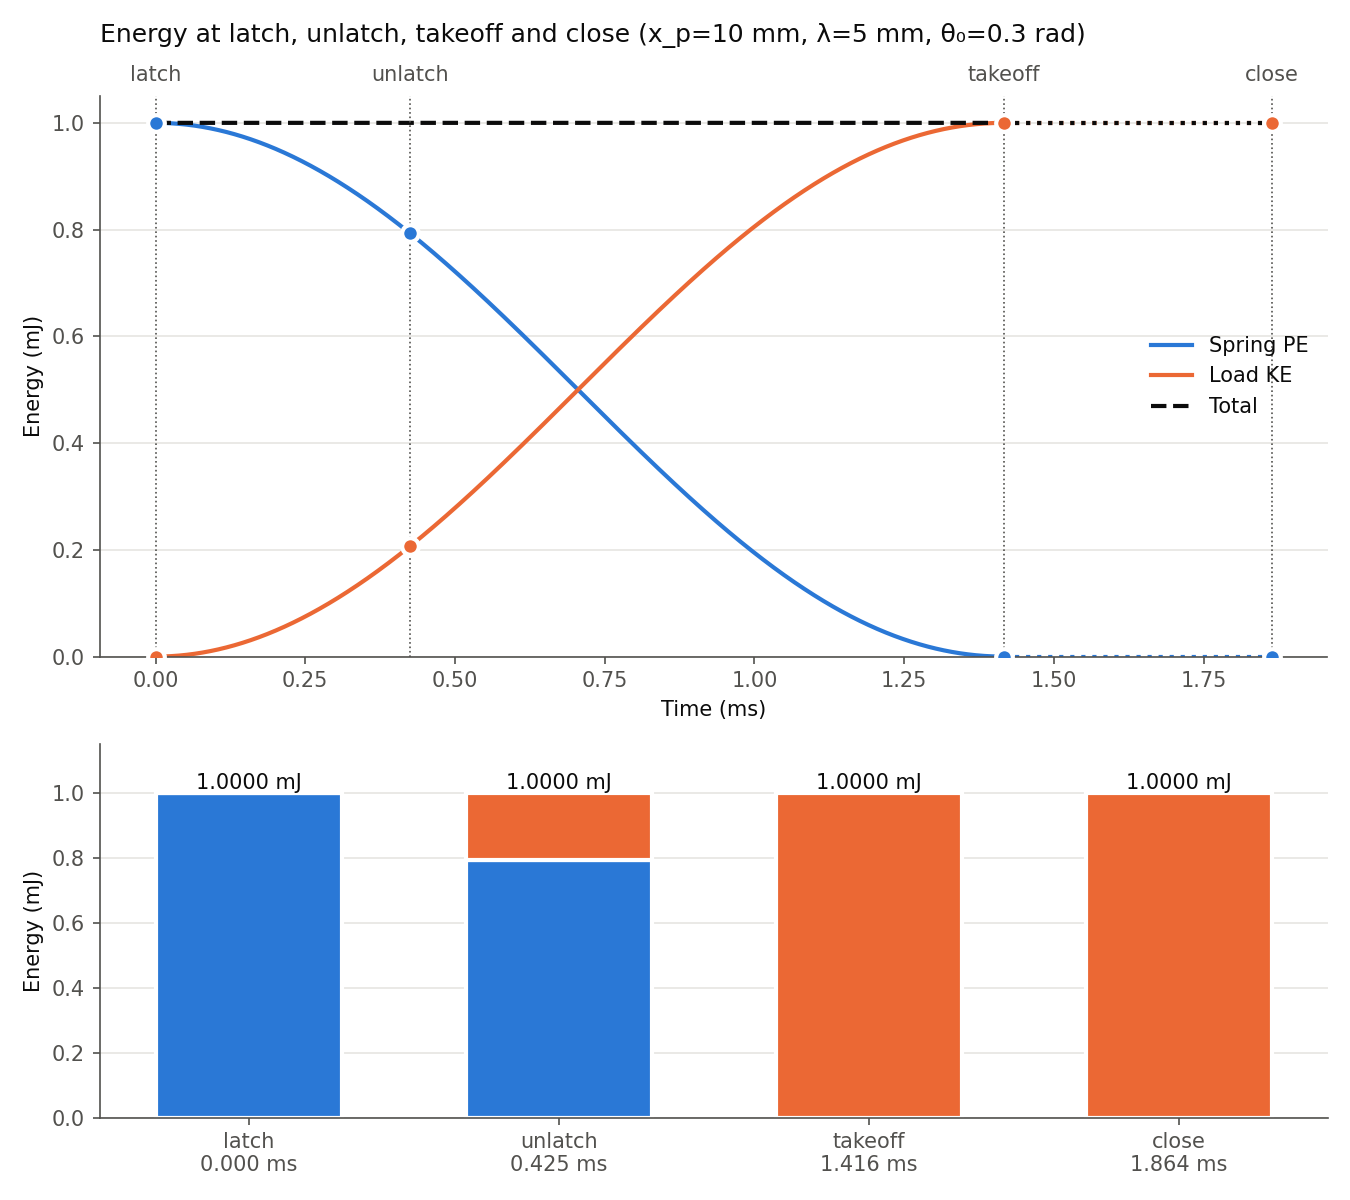
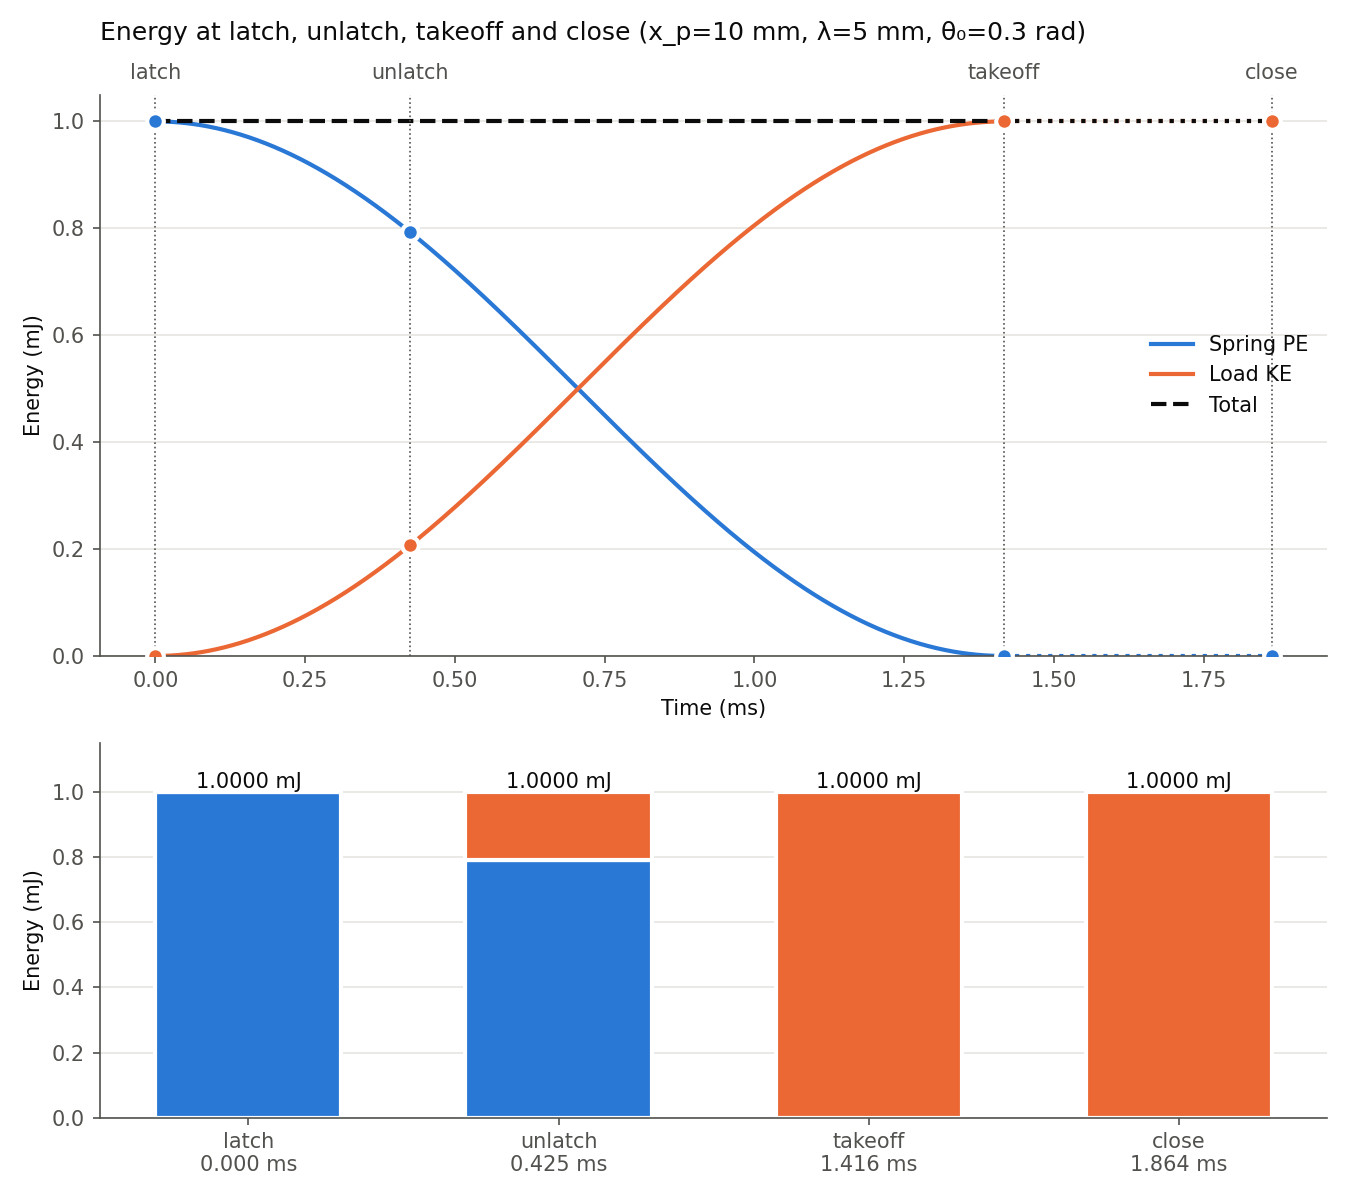
rotational spring model

diff --git a/python_scripts/lamsa/rotational_systems/solve_spring_actuation.py b/python_scripts/lamsa/rotational_systems/solve_spring_actuation.py
@@ -1,0 +1,67 @@
+import numpy as np
+from scipy.integrate import solve_ivp
+
+
+def solve_spring_actuation(spring, load, method="RK45"):
+    """
+    Solve large-angle spring actuation of a lever with an ideal latch.
+    The spring starts stretched, the latch releases instantly at t = 0,
+    and the lever is driven until the spring reaches its rest length.
+
+    Returns sol with columns [time, angle, angular velocity].
+    """
+    lever_length = load.lever_length
+    pivot_x = load.pivot_x
+
+    pivot_y = np.sqrt(
+        spring.initial_length**2 - (pivot_x - lever_length * np.cos(load.theta_0))**2
+    ) - lever_length * np.sin(load.theta_0)
+
+    def spring_length(theta):
+        return np.hypot(pivot_x - lever_length * np.cos(theta), pivot_y + lever_length * np.sin(theta))
+
+    def stretch(theta):
+        return spring_length(theta) - spring.initial_length + spring.initial_stretch
+
+    def alpha(theta):
+        return np.arctan(
+            (pivot_x - lever_length * np.cos(theta)) / (pivot_y + lever_length * np.sin(theta))
+        ) + np.pi / 2 - theta
+
+    def ode(t, state):
+        theta, omega = state
+
+        torque = spring.force(stretch(theta)) * lever_length * np.sin(alpha(theta))
+
+        return [omega, torque / load.inertia]
+
+    def spring_done(t, state):
+        return spring.force(stretch(state[0]))
+
+    spring_done.terminal = True
+    spring_done.direction = 1
+
+    initial_slope = lever_length * np.sin(alpha(load.theta_0))
+    natural_frequency = np.sqrt(spring.stiffness * initial_slope**2 / load.inertia)
+    t_end = np.pi / natural_frequency
+
+    for i in range(10):
+        run = solve_ivp(
+            ode, [0, t_end], [load.theta_0, 0],
+            method=method, events=spring_done, rtol=1e-8, atol=1e-10, dense_output=True,
+        )
+
+        spring_released = run.status == 1
+
+        if spring_released:
+            break
+
+        t_end *= 10
+
+    else:
+        raise RuntimeError("Spring force never reached zero")
+
+    t = np.linspace(0, run.t[-1], 1000)
+    theta, omega = run.sol(t)
+
+    return np.c_[t, theta, omega]

diff --git a/python_scripts/energy_conservation/plot_energy_conservation.py b/python_scripts/energy_conservation/plot_energy_conservation.py
@@ -2,13 +2,15 @@ import sys
 from pathlib import Path
 
 import matplotlib.pyplot as plt
+import numpy as np
 
 HERE = Path(__file__).resolve().parent
-sys.path.insert(0, str(HERE))
-sys.path.insert(0, str(HERE / "tests"))
+sys.path.insert(0, str(HERE.parents[1]))
 
 from python_scripts.energy_conservation.get_metrics import energy_conservation, get_energy_metrics
-from test_energy_conservation import PARAMETER_SETS, simulate
+from python_scripts.lamsa.components.load import RotatingMass
+from python_scripts.lamsa.components.spring import LinearSpring
+from python_scripts.lamsa.rotational_systems.solve_spring_actuation import solve_spring_actuation
 
 SPRING_COLOR = "#2a78d6"
 LOAD_COLOR = "#eb6834"
@@ -20,15 +22,26 @@ MS = 1e3
 MJ = 1e3
 
 
-def main(index=0):
+def main():
     """Plot PE and KE over time, and at latch, unlatch, takeoff, and close."""
-    xp, lam, th0, L0, y0, k, I = PARAMETER_SETS[index]
+    # x_p [m], lambda [m], theta_0 [rad], L_0 [m], y_0 [m], k [N/m], I [kg m^2]
+    xp, lam, th0, L0, y0, k, I = 0.010, 0.005, 0.3, 0.030, 0.002, 500.0, 1e-8
 
-    sol, theta, theta_dot = simulate(xp, lam, th0, L0, y0, k, I)
-    time = sol[:, 0]
-    y = sol[:, 1]
+    spring = LinearSpring(k, L0, y0)
+    load = RotatingMass(I, lam, xp, th0)
+
+    time, theta, omega = solve_spring_actuation(spring, load).T
+
+    pivot_y = np.sqrt(L0**2 - (xp - lam * np.cos(th0))**2) - lam * np.sin(th0)
+    length = np.hypot(xp - lam * np.cos(theta), pivot_y + lam * np.sin(theta))
+    alpha = np.arctan((xp - lam * np.cos(theta)) / (pivot_y + lam * np.sin(theta))) + np.pi / 2 - theta
+
+    y = length - L0 + y0
+    ydot = lam * np.sin(alpha) * omega
+    sol = np.c_[time, y, ydot]
+
     pe = 0.5 * k * y**2
-    ke = 0.5 * I * theta_dot**2
+    ke = 0.5 * I * omega**2
 
     takeoff = time[-1]
 
@@ -123,4 +136,4 @@ def main(index=0):
 
 
 if __name__ == "__main__":
-    main(int(sys.argv[1]) if len(sys.argv) > 1 else 0)
+    main()

diff --git a/python_scripts/lamsa/rotational_systems/plot_lever_angle.py b/python_scripts/lamsa/rotational_systems/plot_lever_angle.py
@@ -1,0 +1,40 @@
+import sys
+from pathlib import Path
+
+import matplotlib.pyplot as plt
+
+sys.path.insert(0, str(Path(__file__).resolve().parents[3]))
+
+from python_scripts.lamsa.components.load import RotatingMass
+from python_scripts.lamsa.components.spring import LinearSpring
+from python_scripts.lamsa.rotational_systems.solve_spring_actuation import solve_spring_actuation
+
+
+if __name__ == "__main__":
+    # Parameters
+    mass = 1                       # kg
+    lever_length = 1               # m
+    pivot_x = 1                    # m
+    theta_0 = -0.1                 # rad
+    spring_stiffness = 100         # N/m
+    spring_rest_length = 0.7       # m
+    spring_initial_stretch = 0.2   # m
+    spring_mass = 0                # kg
+
+    inertia = mass * lever_length**2
+    spring_initial_length = spring_rest_length + spring_initial_stretch
+
+    spring = LinearSpring(spring_stiffness, spring_initial_length, spring_initial_stretch, spring_mass)
+    load = RotatingMass(inertia, lever_length, pivot_x, theta_0)
+
+    sol = solve_spring_actuation(spring, load)
+    time, theta, omega = sol.T
+
+    fig, ax = plt.subplots()
+
+    ax.plot(time, theta)
+    ax.set_xlabel("time [s]")
+    ax.set_ylabel("lever angle, $\\theta$ [rad]")
+
+    fig.tight_layout()
+    plt.show()

diff --git a/python_scripts/lamsa/components/spring.py b/python_scripts/lamsa/components/spring.py
@@ -1,5 +1,19 @@
 class Spring:
-    """Spring used by solve_spring_actuation. Only its mass is needed for now."""
+    """Base class. Subclasses that act on a lever define force(stretch)."""
 
     def __init__(self, mass):
         self.mass = mass
+
+
+class LinearSpring(Spring):
+    """Hooke's law spring. The force is negative while stretched, so the spring pulls back."""
+
+    def __init__(self, stiffness, initial_length, initial_stretch, mass=0):
+        super().__init__(mass)
+
+        self.stiffness = stiffness
+        self.initial_length = initial_length
+        self.initial_stretch = initial_stretch
+
+    def force(self, stretch):
+        return -self.stiffness * stretch

diff --git a/python_scripts/lamsa/linear_systems/plot_projectile_dynamics.py b/python_scripts/lamsa/linear_systems/plot_projectile_dynamics.py
@@ -1,9 +1,14 @@
+import sys
+from pathlib import Path
+
 import matplotlib.pyplot as plt
 import numpy as np
 
-from components.load import Mass
-from components.motor import LinearMotor
-from components.spring import Spring
+sys.path.insert(0, str(Path(__file__).resolve().parents[3]))
+
+from python_scripts.lamsa.components.load import Mass
+from python_scripts.lamsa.components.motor import LinearMotor
+from python_scripts.lamsa.components.spring import Spring
 from python_scripts.lamsa.linear_systems.solve_direct_actuation import solve_direct_actuation
 from python_scripts.lamsa.linear_systems.solve_spring_actuation import solve_spring_actuation
 

diff --git a/python_scripts/lamsa/components/load.py b/python_scripts/lamsa/components/load.py
@@ -10,3 +10,16 @@ class OneDMass(Mass):
         mass = m_end / EMA**2 + m_rod * ((1 + 1 / EMA)**2 + 3 * (1 / EMA - 1)**2) / 12
 
         super().__init__(mass)
+
+
+class RotatingMass:
+    """Lever load. The pivot sits pivot_x to the side of the spring's anchor.
+
+    inertia is about the pivot, and theta_0 is the lever angle at latch.
+    """
+
+    def __init__(self, inertia, lever_length, pivot_x, theta_0):
+        self.inertia = inertia
+        self.lever_length = lever_length
+        self.pivot_x = pivot_x
+        self.theta_0 = theta_0
